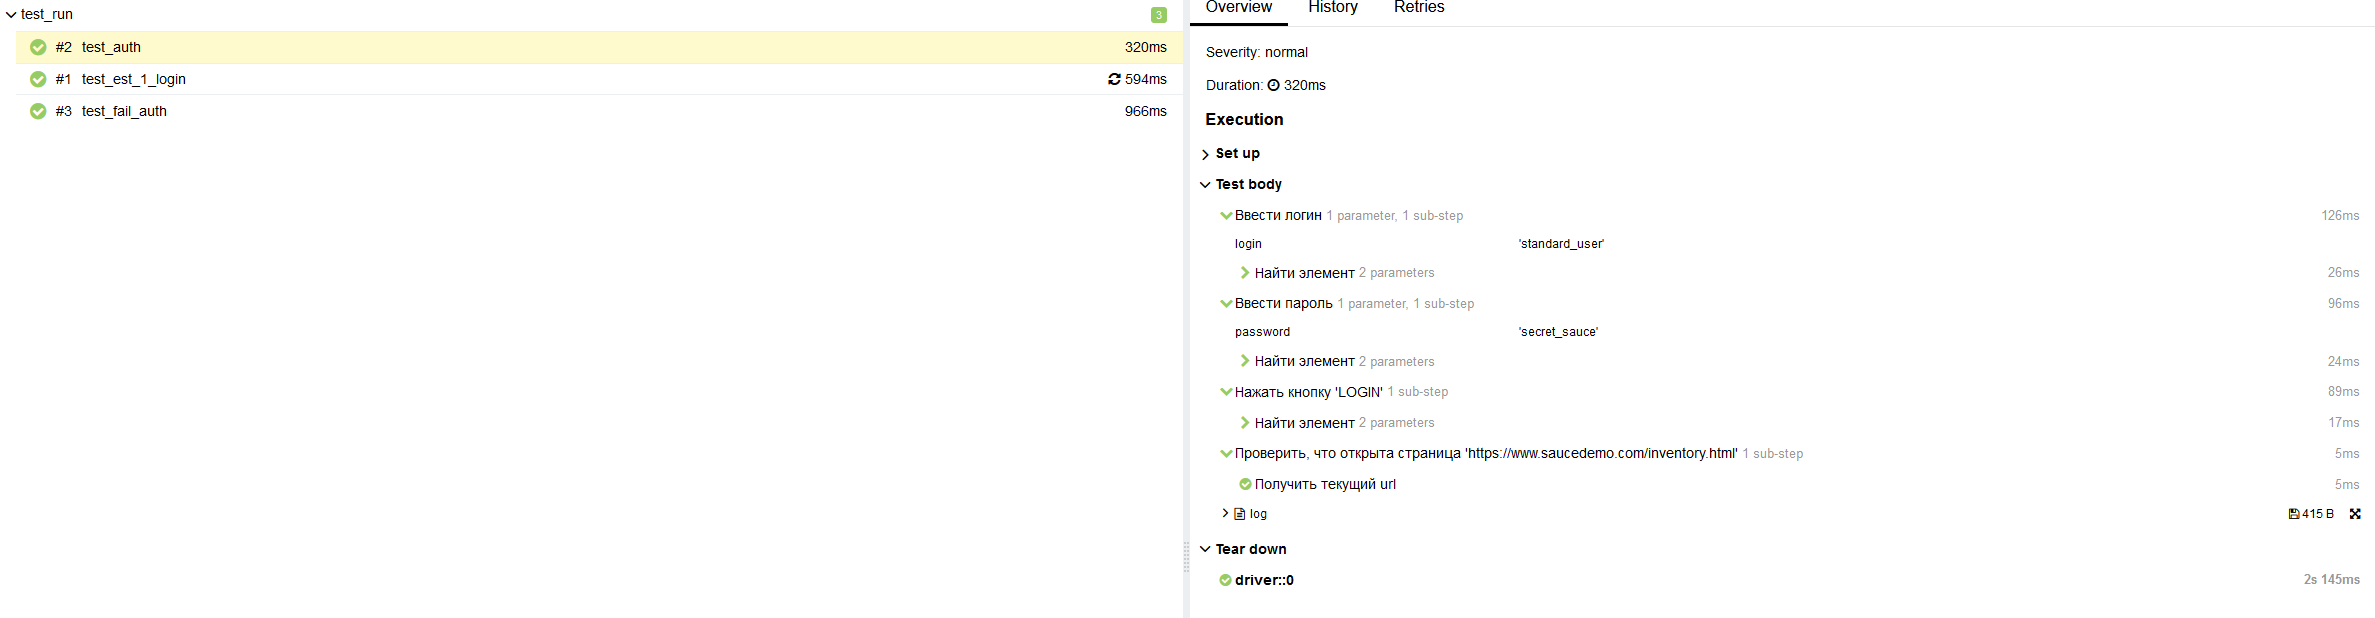
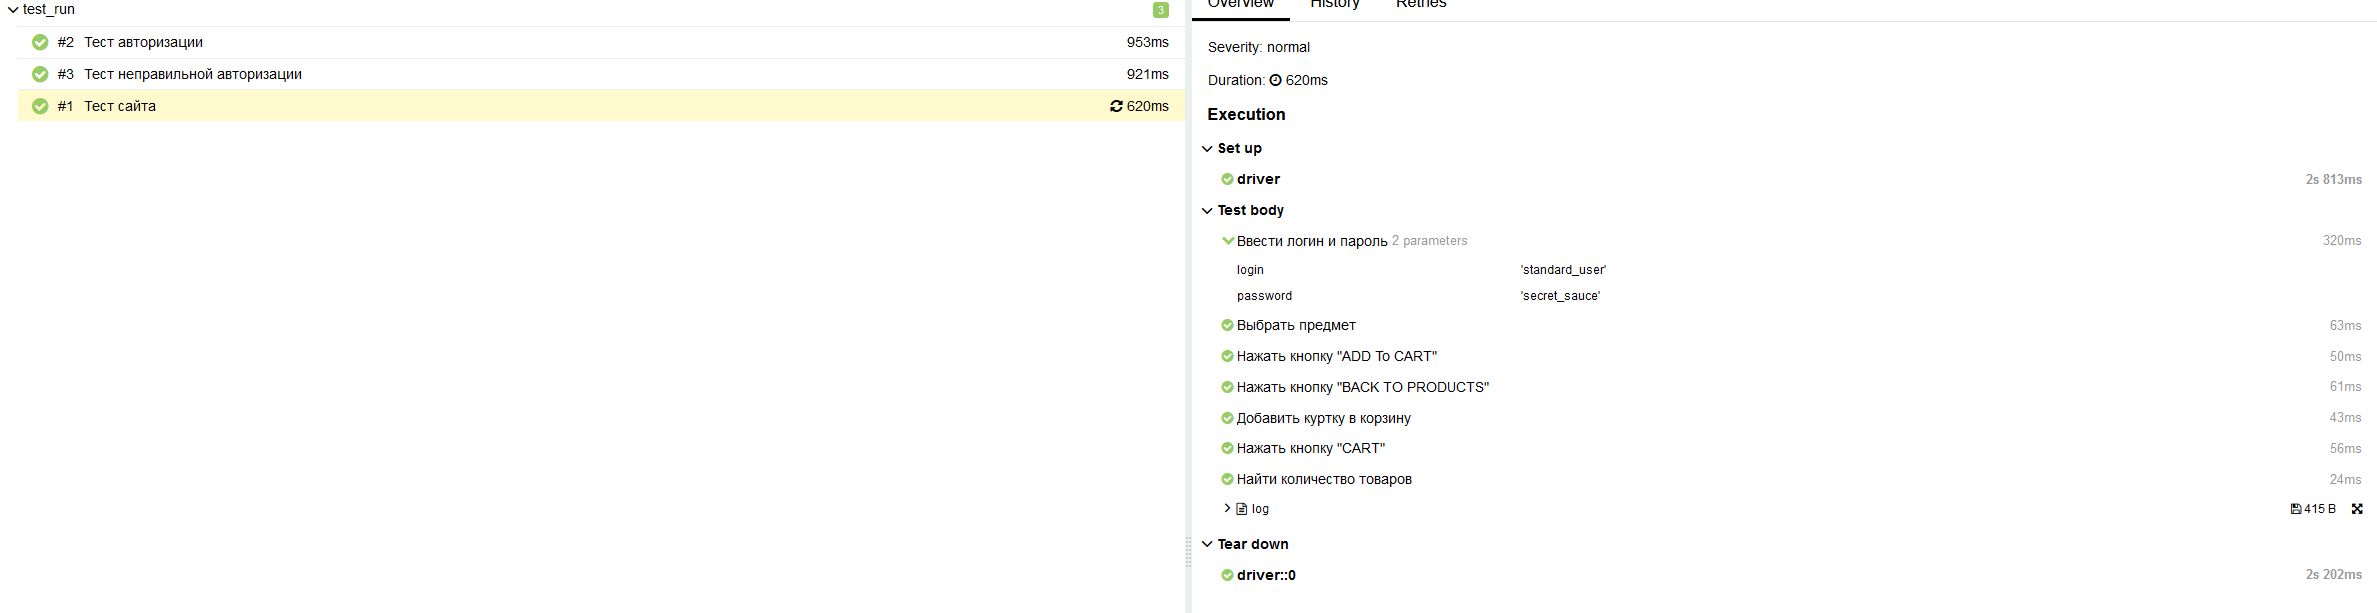
Добавил аннотации, декораторы поставил

diff --git a/pages.py b/pages.py
@@ -12,17 +12,14 @@ class BasePage:
         self.wait = WebDriverWait(driver, timeout)
         self.page_url = ''
 
-    @allure.step(r'Найти элемент')
     def find_element(self, by: By or int, value: str) -> WebElement:
         return self.wait.until(expected_conditions.visibility_of_element_located((by, value)),
                                message=f'Элемент {by, value} не найден')
 
-    @allure.step(r'Найти элементы')
     def find_elements(self, by: By or int, value: str) -> [WebElement]:
         return self.wait.until(expected_conditions.visibility_of_all_elements_located((by, value)),
                                message=f'Элементы {by, value} не найдены')
 
-    @allure.step(r'Получить текущий url')
     def get_current_url(self) -> str:
         return self.driver.current_url
 
@@ -77,11 +74,14 @@ class InventoryPage(BasePage):
 
     @allure.step(r"Проверить, что открыта страница 'https://www.saucedemo.com/inventory.html'")
     def check_inventory_page_open(self) -> bool:
-        return self.get_current_url() == self.page_url
+        with allure.step(r"Проверка..."):
+            assert self.get_current_url() == self.page_url, "Ошибка проверки!"
 
     @allure.step(r"Проверить, что страница 'https://www.saucedemo.com/inventory.html' не открыта")
     def check_inventory_page_close(self) -> bool:
-        return self.get_current_url() != self.page_url
+        with allure.step(r"Проверка..."):
+            assert self.get_current_url() != self.page_url, "Ошибка проверки!"
+
 
 class ItemPage(BasePage):
     def __init__(self, driver):
@@ -107,5 +107,5 @@ class CartPage(BasePage):
                             # то есть в DevTools вы должны видеть "1 of 2" при поиске данного локатора
 
     @allure.step(r'Найти количество товаров')
-    def number_of_products(self):
+    def number_of_products(self) -> int:
         return len(self.find_elements(*self.item_list))

diff --git a/test_run.py b/test_run.py
@@ -1,6 +1,8 @@
 from pages import BasePage, LoginPage, InventoryPage, ItemPage, CartPage
+import allure
 
 
+@allure.title(r"Тест сайта")
 def test_est_1_login(driver):
     auth_page = LoginPage(driver)
     auth_page.auth('standard_user', 'secret_sauce')
@@ -19,19 +21,21 @@ def test_est_1_login(driver):
     assert cart_page.number_of_products() == 2
 
 
+@allure.title(r"Тест авторизации")
 def test_auth(driver):
     auth_page = LoginPage(driver)
     auth_page.input_login('standard_user')
     auth_page.input_password('secret_sauce')
     auth_page.login_button_click()
 
-    assert InventoryPage(driver).check_inventory_page_open()
+    InventoryPage(driver).check_inventory_page_open()
 
 
+@allure.title(r"Тест неправильной авторизации")
 def test_fail_auth(driver):
     auth_page = LoginPage(driver)
     auth_page.input_login('standard_user')
     auth_page.input_password('BestPassword123')
     auth_page.login_button_click()
 
-    assert InventoryPage(driver).check_inventory_page_close()
+    InventoryPage(driver).check_inventory_page_close()
